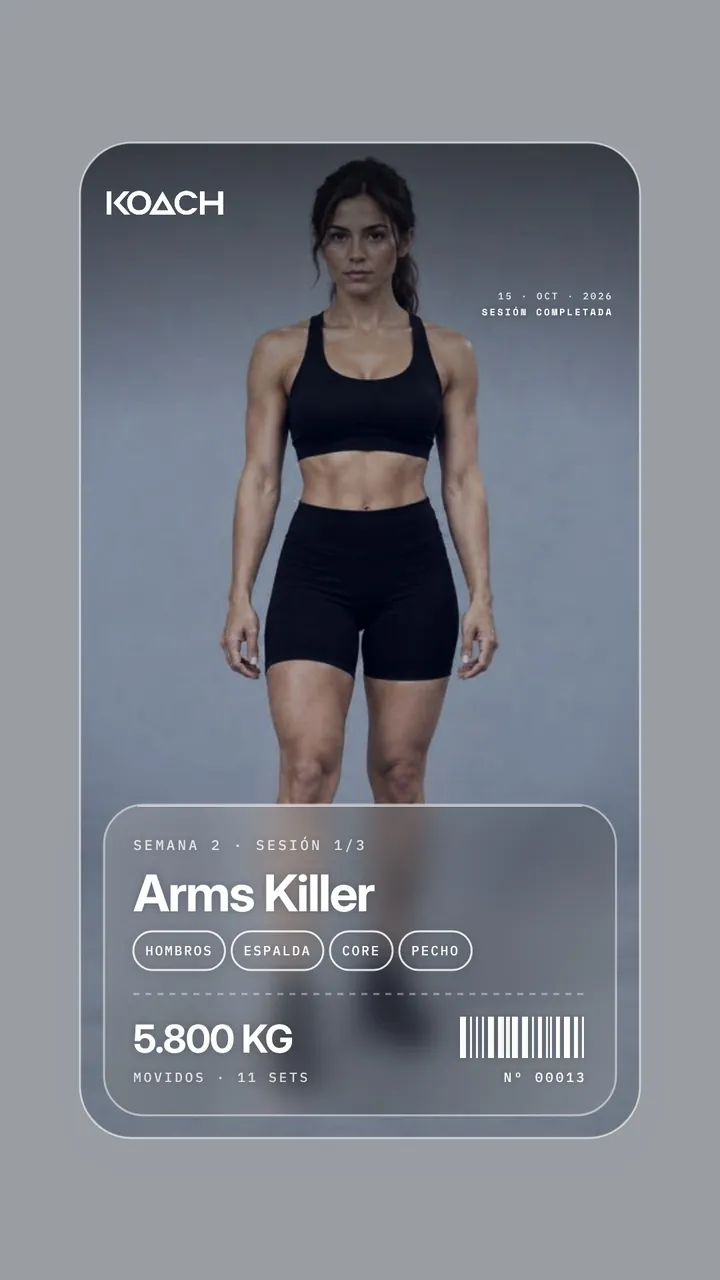
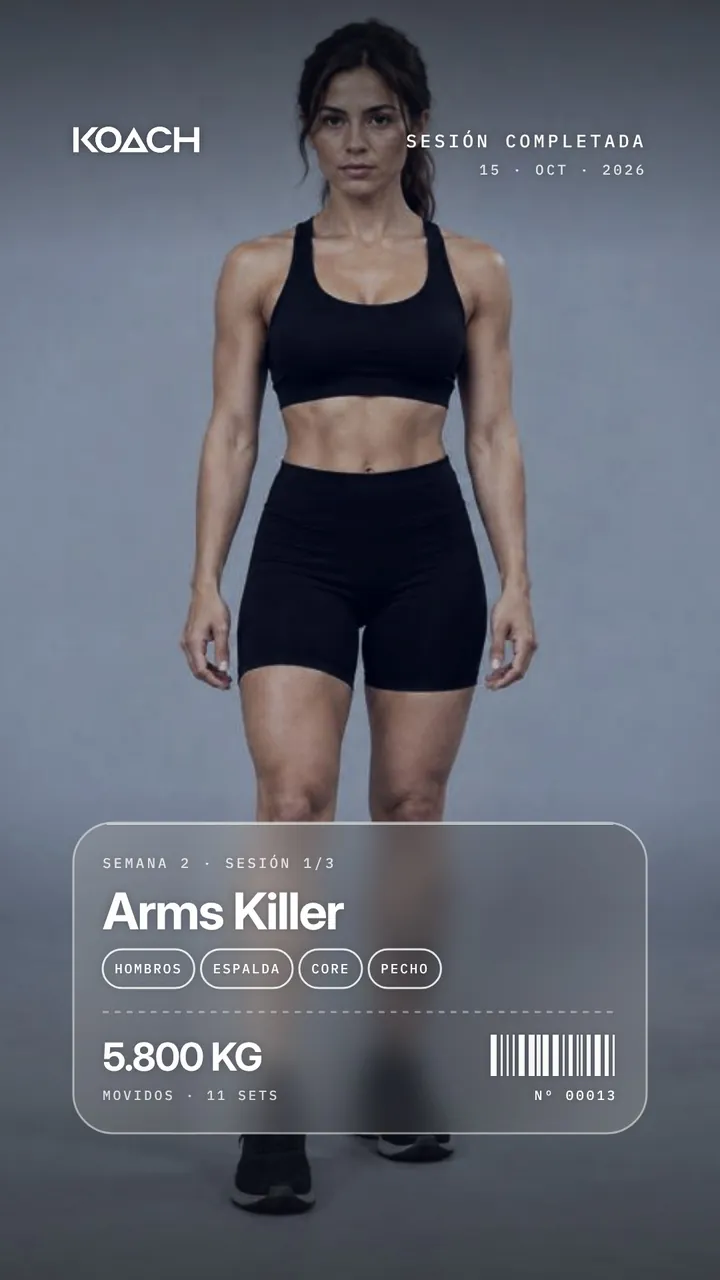
c170 TICKET · foto a sangre en toda la historia (sin marco gris), cabecera igual a Editorial/Mapa y ticket de cristal al pie en la zona segura
Claude-Session: https://claude.ai/code/session_01QnMkkcbjYXJUxkkhVef7UG

diff --git a/app.html b/app.html
@@ -7709,34 +7709,21 @@ function kaTicket(ctx) {
   const W = KT.W, H = KT.H, d = kaDatos(), P = 54, INK = '#121212', MU = '#5E5D59', B = '#FFFFFF';
   ctx.clearRect(0, 0, W, H); ctx.fillStyle = '#9A9DA2'; ctx.fillRect(0, 0, W, H);
   const fo = kaFondo(); if (fo) ctx.drawImage(fo, 0, 0, W, H);
-  // c164 · marco con la misma proporción 9:16 de la historia y el mismo respiro en los cuatro lados (antes quedaba angosto y alto)
-  const fx = 120, fw = W - 2 * fx, fh = Math.round(fw * 16 / 9), fy = Math.round((H - fh) / 2), src = kmFoto(), r = Math.max(fw / W, fh / H), sw = fw / r, sh = fh / r;   // c151 · margen lateral 230
-  let sx = (W - sw) / 2, sy = (H - sh) / 2;
-  if (KM.focoSrc === KS.foto && KM.foco) { const cv = kmCover(KS.foto), top = cv.oy + KM.foco.top * cv.h, cx = cv.ox + KM.foco.cx * cv.w;
-    sx = Math.max(0, Math.min(W - sw, cx - sw / 2)); sy = Math.max(0, Math.min(H - sh, top - sh * .1)) }
-  ctx.save(); kaRR(ctx, fx, fy, fw, fh, 78); ctx.clip(); ctx.drawImage(src, sx, sy, sw, sh, fx, fy, fw, fh);
-  const g = ctx.createLinearGradient(0, fy, 0, fy + 420); g.addColorStop(0, 'rgba(18,18,18,.55)'); g.addColorStop(1, 'rgba(18,18,18,0)'); ctx.fillStyle = g; ctx.fillRect(fx, fy, fw, 420);
+  // c170 · foto a sangre (llena la historia completa como Editorial y Mapa); cabecera igual a las otras plantillas; ticket de cristal al pie dentro de la zona segura
+  const fx = 0, fy = 0, fw = W, fh = H, src = kmFoto(), sx = 0, sy = 0, sw = W, sh = H;
+  ctx.drawImage(src, 0, 0, W, H);
+  const g = ctx.createLinearGradient(0, 0, 0, H); g.addColorStop(0, 'rgba(18,18,18,.5)'); g.addColorStop(.2, 'rgba(18,18,18,0)'); g.addColorStop(.62, 'rgba(18,18,18,0)'); g.addColorStop(1, 'rgba(18,18,18,.55)');
+  ctx.fillStyle = g; ctx.fillRect(0, 0, W, H);
+  const Mx = KS_SAFE_X;
+  ctx.save(); ctx.shadowColor = 'rgba(0,0,0,.35)'; ctx.shadowBlur = 14;
+  const lg = kaLogo(B); if (lg) ctx.drawImage(lg, Mx, KS_SAFE_T - 60, lg.width * 39 / lg.height, 39);
+  kmTxt(ctx, 'SESIÓN COMPLETADA', W - Mx, KS_SAFE_T - 29, 500, 27, 'mono', 5, B, 'right');
+  kmTxt(ctx, d.fecha, W - Mx, KS_SAFE_T + 12, 500, 21, 'mono', 4, 'rgba(255,255,255,.82)', 'right');
   ctx.restore();
-  ctx.save(); kaRR(ctx, fx, fy, fw, fh, 78); ctx.lineWidth = 3; ctx.strokeStyle = 'rgba(255,255,255,.6)'; ctx.stroke(); ctx.restore();
-  const ix = fx + 40, ixr = fx + fw - 40;
-  // c148 · el logo se alinea con los ojos y el dato lateral con el cuello (detección de cuerpo); sin detección, alturas base
-  let yOjos = fy + 96, yCuello = fy + 176;
-  if (KM.LSrc === KS.foto && KM.L) { const L = KM.L, cv = kmCover(KS.foto), aFrame = yc => fy + (yc - sy) * (fh / sh), Y = p => aFrame(cv.oy + p.y * cv.h);
-    const ok = i => L[i] && (L[i].visibility == null || L[i].visibility > .3);
-    const ojos = [2, 5].filter(ok).map(i => Y(L[i])), hombros = [11, 12].filter(ok).map(i => Y(L[i]));
-    if (ojos.length) yOjos = ojos.reduce((a, b) => a + b) / ojos.length;
-    if (ojos.length && hombros.length) yCuello = yOjos + (hombros.reduce((a, b) => a + b) / hombros.length - yOjos) * .6;
-    if (yOjos > fy + fh * .32 || yOjos < fy + 60) { yOjos = fy + 96; yCuello = fy + 176 }   // c164 · cara tapada o muy abajo (selfie al espejo): logo arriba, no a media foto
-    yCuello = Math.max(yOjos + 50, Math.min(yOjos + 160, yCuello)) }
-  const lg = kaLogo(B); if (lg) ctx.drawImage(lg, ix, Math.max(fy + 36, yOjos - 58), lg.width * 36 / lg.height, 36);   // c167 · logo levemente más arriba
-  kmTxt(ctx, d.fecha, ixr, yCuello - 6, 500, 14, 'mono', 3, 'rgba(255,255,255,.9)', 'right');   // dato mínimo al costado
-  // c144 · 'SESIÓN COMPLETADA' como dato en Space Mono, sin pill
-  ctx.save(); ctx.shadowColor = 'rgba(0,0,0,.35)'; ctx.shadowBlur = 12; ctx.font = "700 14px 'Space Mono', 'IBM Plex Mono', monospace"; if ('letterSpacing' in ctx) ctx.letterSpacing = '3px';
-  ctx.fillStyle = B; ctx.textAlign = 'right'; ctx.fillText('SESIÓN COMPLETADA', ixr, yCuello + 18); if ('letterSpacing' in ctx) ctx.letterSpacing = '0px'; ctx.restore();
   // c143 · ticket de CRISTAL: foto desenfocada debajo + velo gris leve + brillos de borde, texto blanco (como las tarjetas de logro)
-  const tx = fx + 36, tw = fw - 72, tp = 44, PO = { size: 20, track: 2.5, h: 58, gap: 10, px: 18 }, pillsH = kaPills(document.createElement('canvas').getContext('2d'), d.pills, 0, 0, tw - 2 * tp, PO);
+  const tx = KS_SAFE_X, tw = W - 2 * KS_SAFE_X, tp = 44, PO = { size: 20, track: 2.5, h: 58, gap: 10, px: 18 }, pillsH = kaPills(document.createElement('canvas').getContext('2d'), d.pills, 0, 0, tw - 2 * tp, PO);
   const T = kaLineas(ctx, d.rut, 76, tw - 2 * tp, 2), hT = T.s * .92 + (T.L.length - 1) * T.s * .95;
-  const th = tp + 24 + 22 + hT + 30 + pillsH + 36 + 30 + 62 + 46 + tp, ty = fy + fh - 34 - th;   // c147 · ticket más abajo, mismo respiro que a los lados
+  const th = tp + 24 + 22 + hT + 30 + pillsH + 36 + 30 + 62 + 46 + tp, ty = H - KS_SAFE_B + 30 - th;   // c147 · ticket más abajo, mismo respiro que a los lados
   const bl = document.createElement('canvas'), sc = 18; bl.width = Math.ceil(tw / sc); bl.height = Math.ceil(th / sc); const bx = bl.getContext('2d');
   bx.imageSmoothingQuality = 'high'; bx.drawImage(ctx.canvas, tx, ty, tw, th, 0, 0, bl.width, bl.height);
   for (let n = 0; n < 2; n++) { bx.globalAlpha = .5; [[1, 0], [-1, 0], [0, 1], [0, -1]].forEach(([a, b]) => bx.drawImage(bl, a, b)); bx.globalAlpha = 1 }
